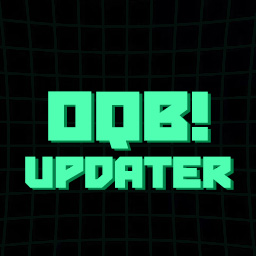
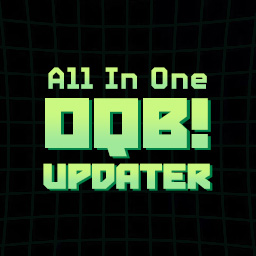
fix: correct app title capitalization

Changed region(s): [[0.0938, 0.25, 0.9375, 0.75]]

diff --git a/source/list_download_tab.cpp b/source/list_download_tab.cpp
@@ -76,7 +76,13 @@ void ListDownloadTab::createList(contentType type)
                         }
                     }
                 }
-                if (type != contentType::payloads && type != contentType::hekate_ipl) {
+                if (type == contentType::apps && url.size() > 4 && url.substr(url.size() - 4) == ".nro") {
+                    std::string filename = url.substr(url.rfind('/') + 1);
+                    std::string dest = std::string("/switch/") + filename;
+                    fs::createTree("/switch/");
+                    stagedFrame->addStage(new WorkerPage(stagedFrame, "menus/common/downloading"_i18n, [url, dest]() { download::downloadFile(url, dest, OFF); }));
+                }
+                else if (type != contentType::payloads && type != contentType::hekate_ipl) {
                     if (type != contentType::cheats || (this->newCheatsVer != this->currentCheatsVer && this->newCheatsVer != "offline")) {
                         stagedFrame->addStage(new WorkerPage(stagedFrame, "menus/common/downloading"_i18n, [this, type, url]() { util::downloadArchive(url, type); }));
                     }